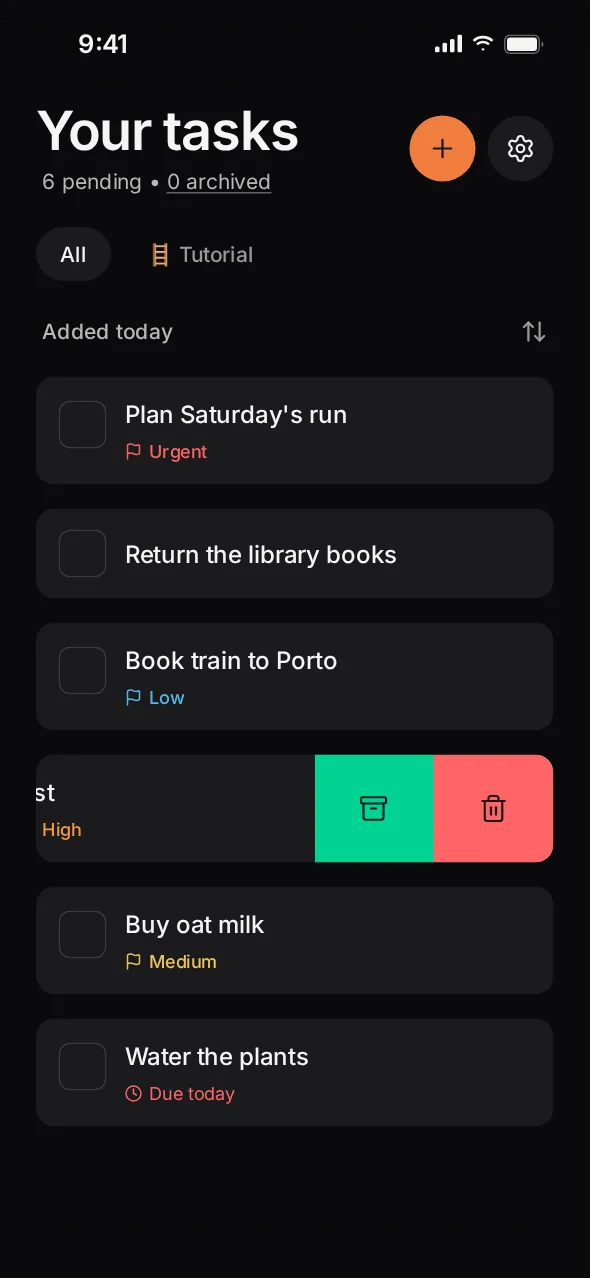
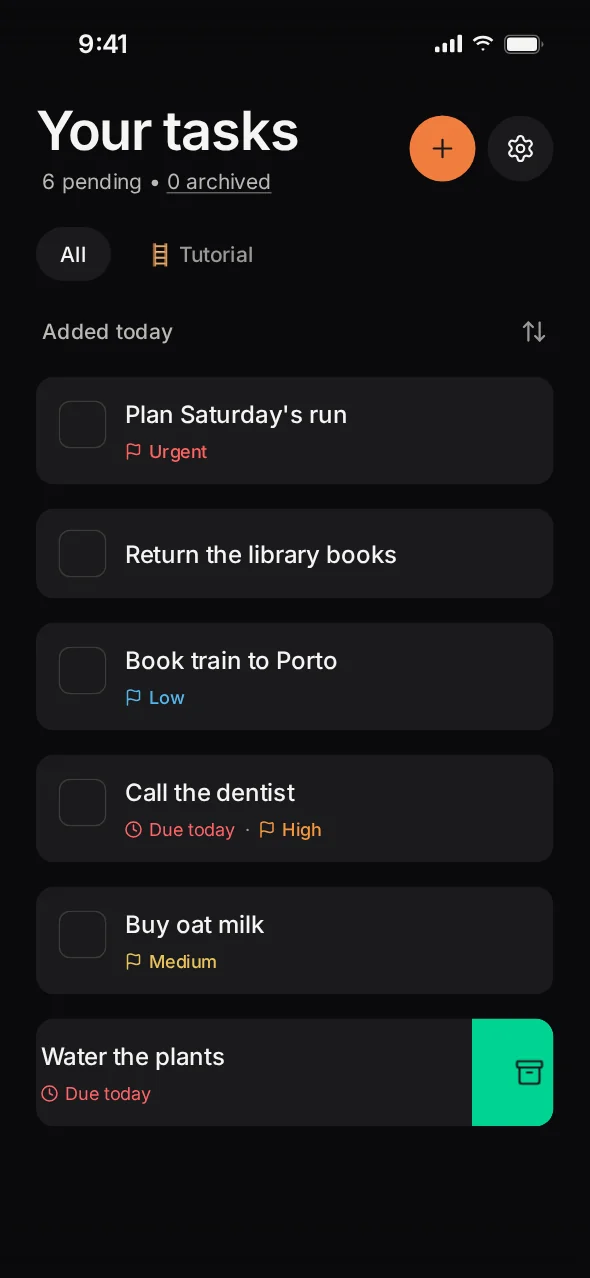
fix(website): the chopchop card in built with adaptv shows a task half swiped with its title readable
Swiped all the way open, the row's title slid out of view and the still
image showed only "st / High" next to Archive and Delete, which reads as
a rendering bug. The capture now holds a touch 56 px into the swipe on
"Water the plants": the whole title stays readable and the Archive
action comes in. A mouse drag lets go and the row snaps open or shut, so
the script drives CDP touch events and never lifts; it waits for the list
to settle first and fails if the row did not move by the asked distance.

diff --git a/website/scripts/capture-chopchop.ts b/website/scripts/capture-chopchop.ts
@@ -78,6 +78,10 @@ async function installed(page: Page) {
   })
 }
 
+//the card held mid-swipe in "Built with adaptv", and how far (CSS px)
+const SWIPED = "Water the plants"
+const SWIPE = Number(process.env.SWIPE ?? 56)
+
 //settle: the drawers and the list animate in
 const settle = (page: Page) => page.waitForTimeout(1000)
 
@@ -122,17 +126,34 @@ const SCREENS: Record<string, [Phone, number, (page: Page) => Promise<void>]> =
       async (page) => {
         await addTasks(page, TASKS)
         await installed(page)
-        //a card swiped left shows its Archive and Delete actions
-        const card = page
-          .getByRole("article")
-          .filter({ has: page.getByText("Call the dentist", { exact: true }) })
-        const box = await card.boundingBox()
-        const y = box.y + box.height / 2
-        await page.mouse.move(box.x + box.width - 20, y)
-        await page.mouse.down()
-        await page.mouse.move(box.x + box.width - 220, y, { steps: 12 })
-        await page.mouse.up()
+        /*
+         * A card held mid-swipe: its actions show and its title still reads. Swiped all
+         * the way open, the title slides out and a still image looks broken.
+         */
+        //the list animates in: a touch that lands mid-animation never locks
         await settle(page)
+        const title = page.getByText(SWIPED, { exact: true })
+        const card = page.getByRole("article").filter({ has: title })
+        const box = await card.boundingBox()
+        const before = (await title.boundingBox()).x
+        //touch, never lifted: a mouse drag lets go and the row snaps open or shut
+        const cdp = await page.context().newCDPSession(page)
+        const touch = (type: string, x: number) =>
+          cdp.send("Input.dispatchTouchEvent", {
+            type,
+            touchPoints: type === "touchEnd" ? [] : [{ x, y }],
+          })
+        const y = box.y + box.height / 2
+        const from = box.x + box.width - 20
+        await touch("touchStart", from)
+        for (let i = 1; i <= 7; i++)
+          await touch("touchMove", from - (SWIPE * i) / 7)
+        await settle(page)
+        const moved = before - (await title.boundingBox()).x
+        if (Math.abs(moved - SWIPE) > 2)
+          throw new Error(
+            `the row moved ${moved} px, not ${SWIPE}: capture again`,
+          )
       },
     ],
   }

diff --git a/website/src/components/sections/built-with.tsx b/website/src/components/sections/built-with.tsx
@@ -19,7 +19,7 @@ const APPS = [
     line: "A task app that works offline and syncs when you sign in.",
     platform: "ios",
     image: chopchop,
-    alt: "ChopChop's task list with one task swiped open to Archive and Delete, in an iPhone frame.",
+    alt: "ChopChop's task list, one task half swiped to show its Archive action, in an iPhone frame.",
   },
   {
     name: "Veralens",
